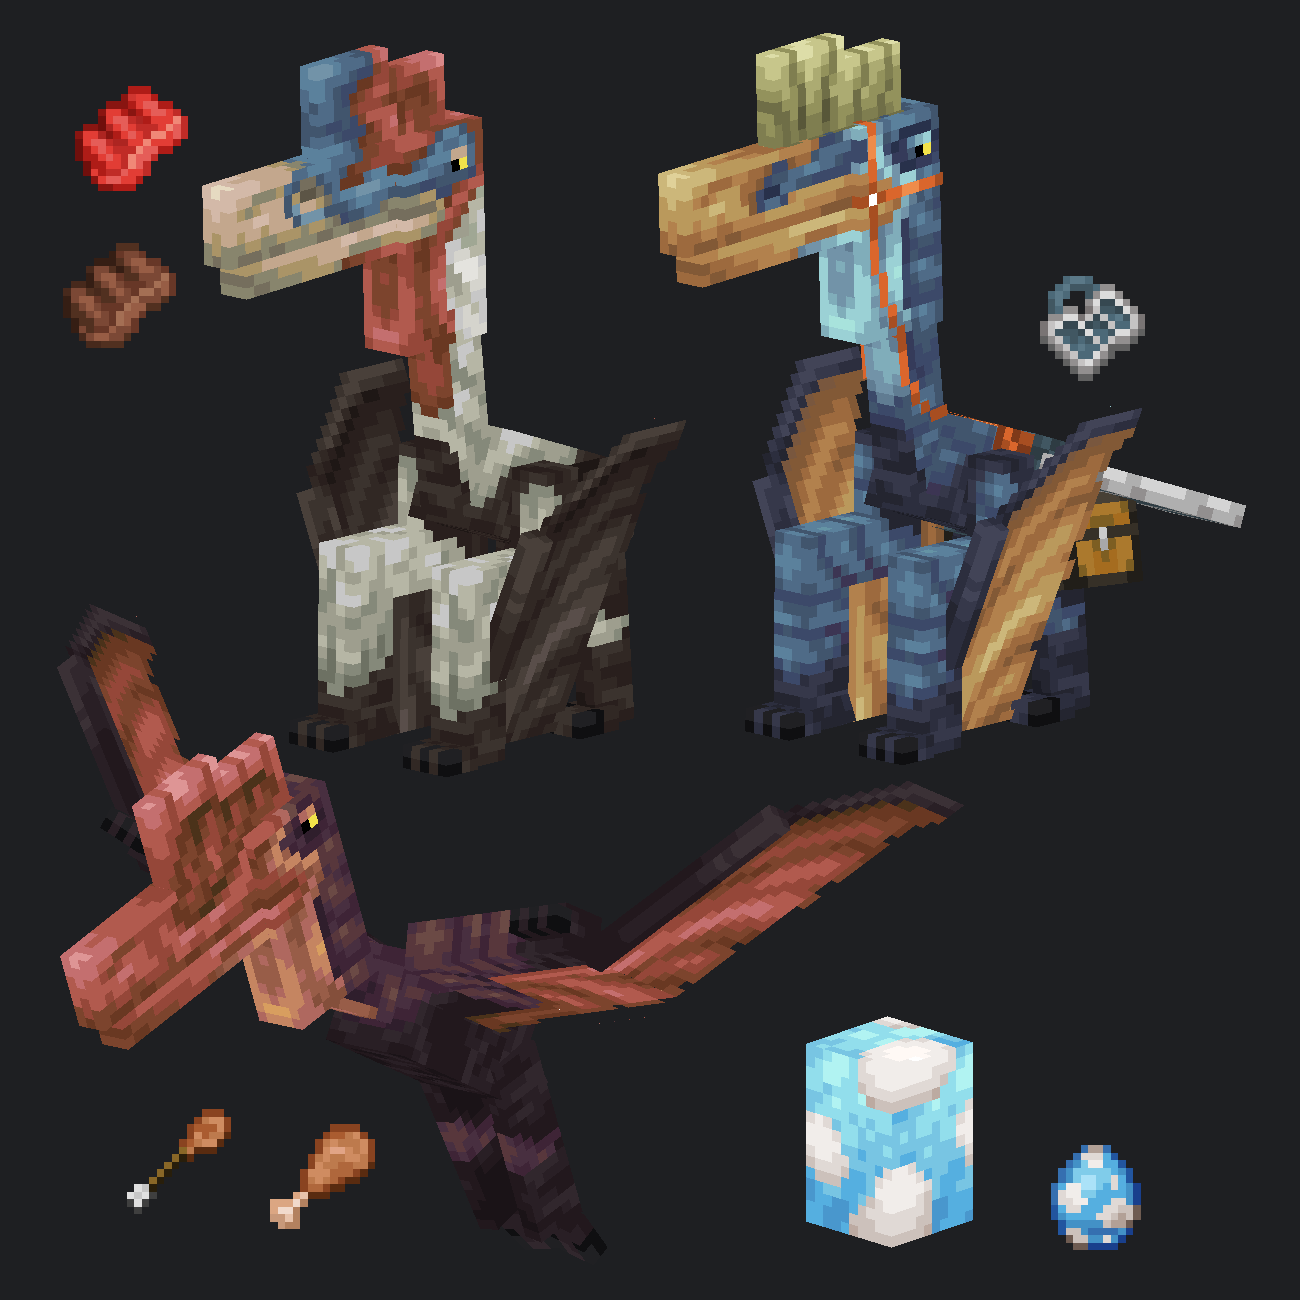
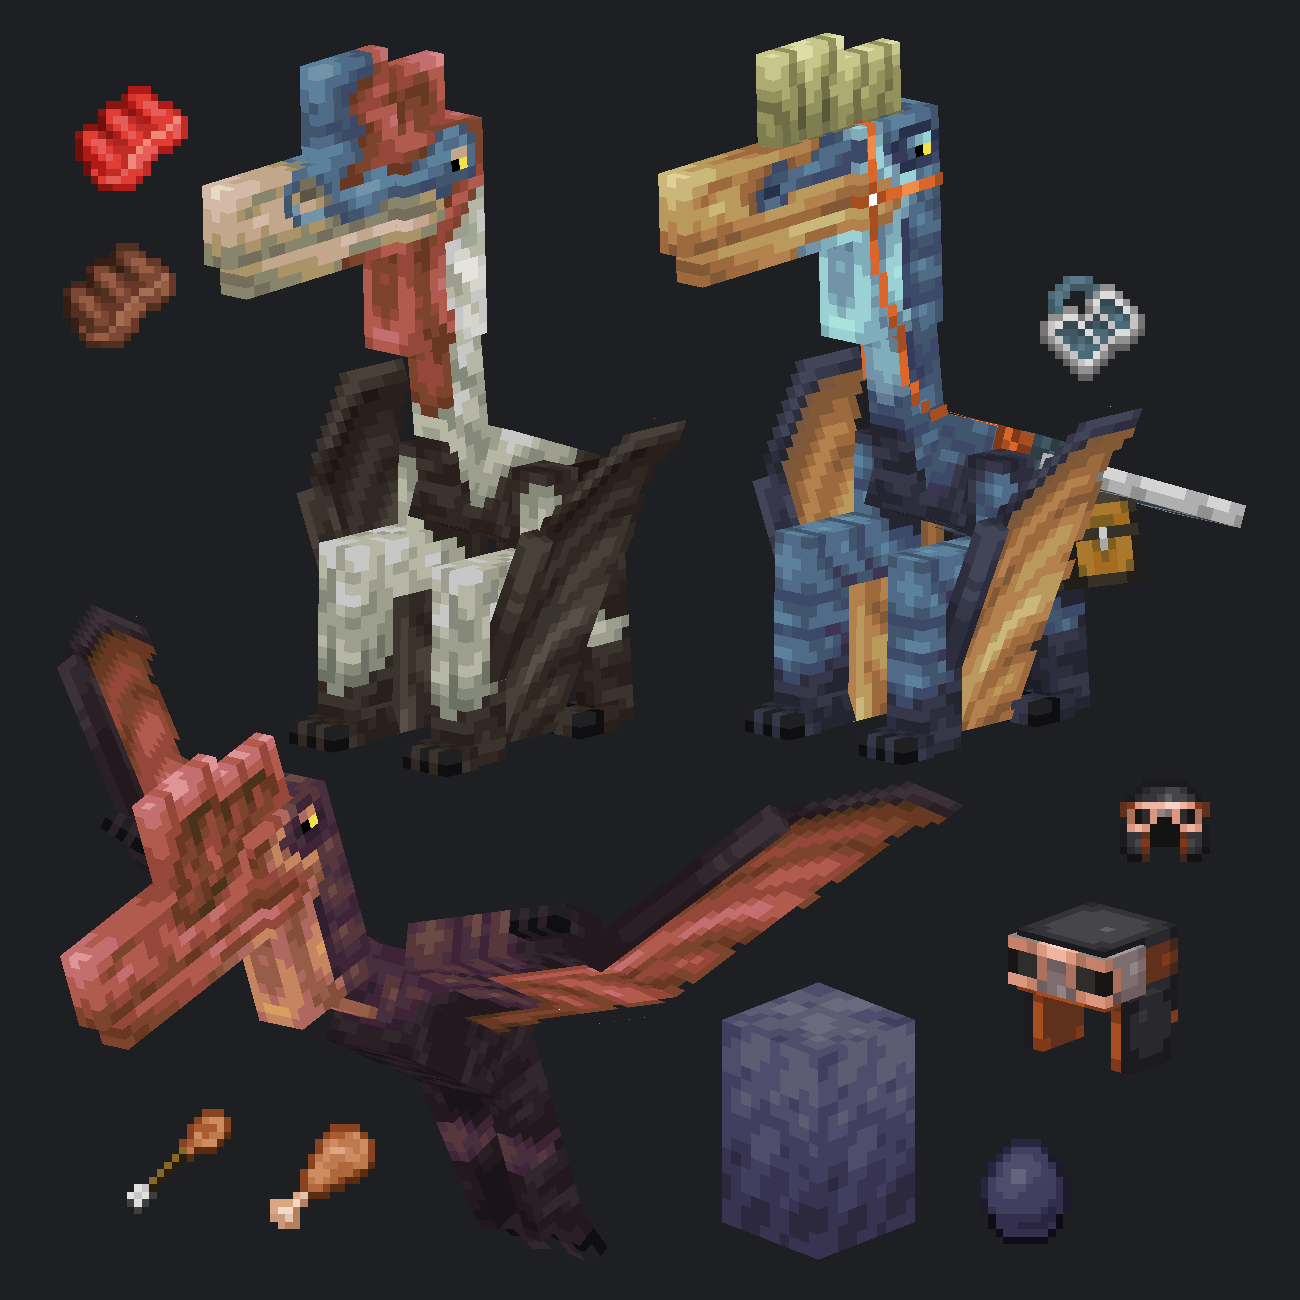
🎨 Even More Portfolio Pics

Changed region(s): [[0.5538, 0.7385, 0.8923, 0.9846], [0.7692, 0.6769, 0.9231, 0.8308], [0.8615, 0.5846, 0.9538, 0.6769]]

diff --git a/js/portfolio_pics.js b/js/portfolio_pics.js
@@ -18,7 +18,10 @@ const pics = [
   {img: "teddy.png"},
   {img: "shiny_beetle.png"},
   {img: "ground_beetle.png"},
-  {img: "quetzal.png"}
+  {img: "quetzal.png"},
+  {img: "scarecrow.png"},
+  {img: "graptera.png"},
+  {img: "argentavis.png"}
 ];
 
 function renderPics() {
